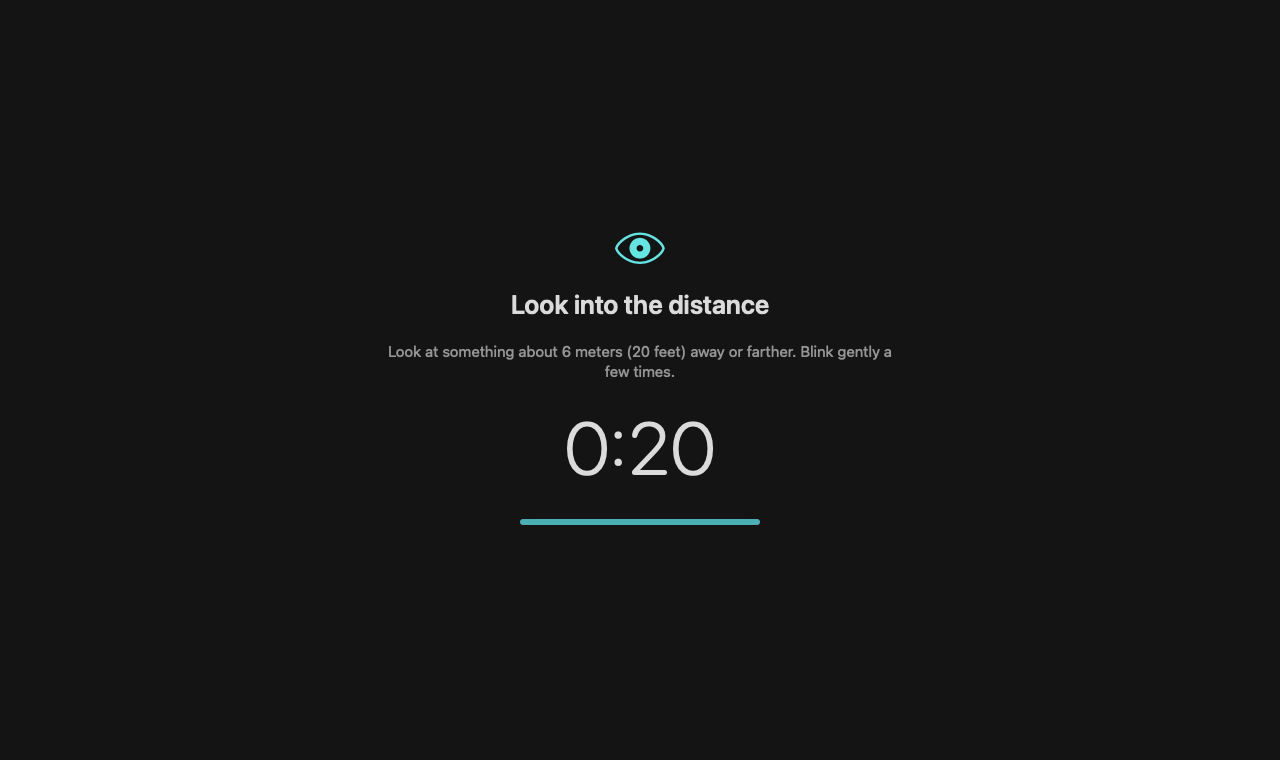
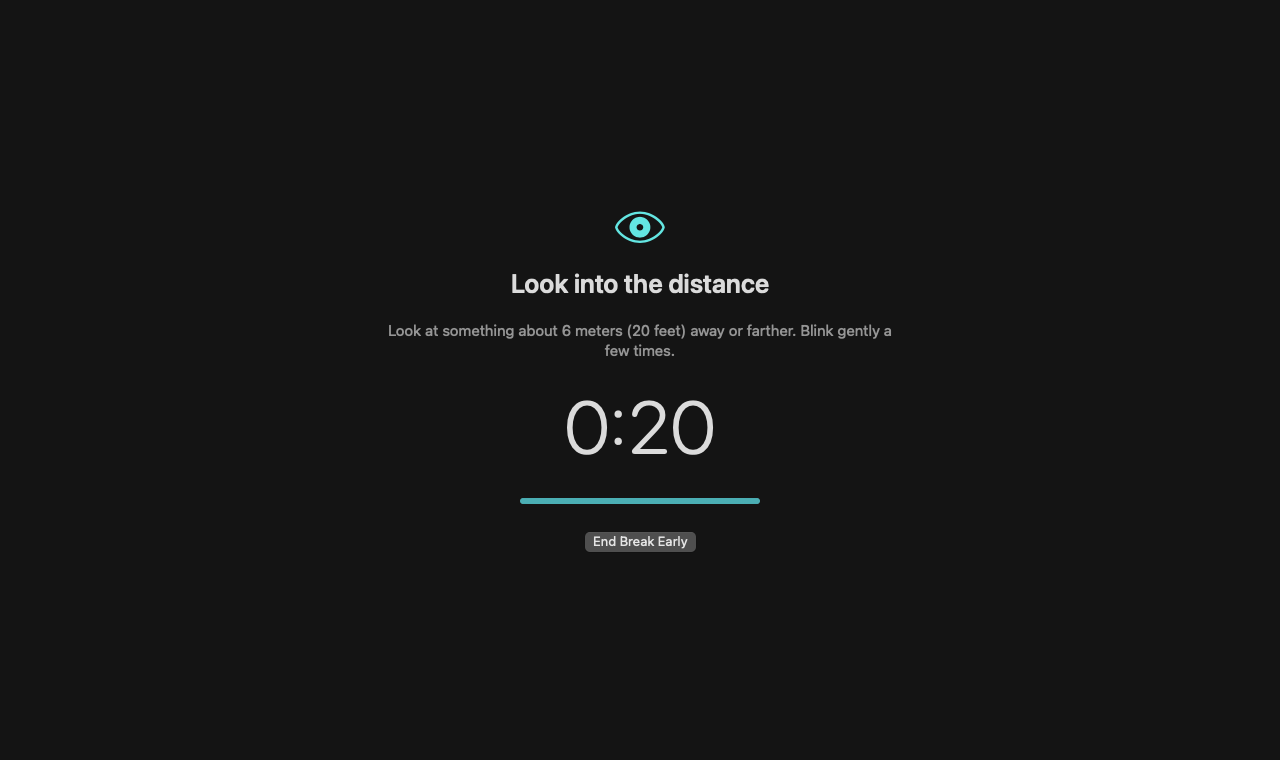
Allow users to end a break early

Changed region(s): [[0.3125, 0.2724, 0.6875, 0.7263]]

diff --git a/EyeCare/BreakOverlay.swift b/EyeCare/BreakOverlay.swift
@@ -49,6 +49,7 @@ final class BreakOverlay {
             window.animationBehavior = .none
             window.collectionBehavior = [.canJoinAllSpaces, .fullScreenAuxiliary, .stationary, .ignoresCycle]
             window.collectionBehavior.insert(.canJoinAllApplications)
+            window.onEscape = { [weak timing] in timing?.endBreakEarly() }
             window.contentView = NSHostingView(rootView: BreakView(timing: timing))
             window.orderFrontRegardless()
             return window
@@ -60,11 +61,19 @@ final class BreakOverlay {
 }
 
 private final class OverlayWindow: NSWindow {
+    var onEscape: (() -> Void)?
+
     override var canBecomeKey: Bool { true }
 
     override func sendEvent(_ event: NSEvent) {
         switch event.type {
-        case .keyDown, .keyUp, .flagsChanged:
+        case .keyDown:
+            let modifiers: NSEvent.ModifierFlags = [.command, .control, .option, .shift]
+            if !event.isARepeat, event.modifierFlags.intersection(modifiers).isEmpty,
+               event.charactersIgnoringModifiers == "\u{1B}" {
+                onEscape?()
+            }
+        case .keyUp, .flagsChanged:
             return
         default:
             super.sendEvent(event)
@@ -104,6 +113,12 @@ private struct BreakView: View {
                     .tint(.mint)
                     .frame(maxWidth: 240)
                     .accessibilityHidden(true)
+
+                Button("break.endEarly") {
+                    timing.endBreakEarly()
+                }
+                .buttonStyle(.bordered)
+                .help(Text("break.endEarlyHelp"))
             }
             .padding(32)
             .frame(maxWidth: 600)

diff --git a/EyeCareTests/WorkTimerTests.swift b/EyeCareTests/WorkTimerTests.swift
@@ -1,6 +1,38 @@
 import XCTest
 
 final class WorkTimerTests: XCTestCase {
+    func testEndingShortBreakEarlyResumesWorkAndPreservesLongBreakProgress() {
+        var timer = WorkTimer(now: 0)
+        timer.update(at: 1200, idleSeconds: 0, suspended: false)
+        XCTAssertEqual(timer.schedule.session?.kind, .short)
+
+        timer.endBreak(at: 1202)
+        XCTAssertNil(timer.schedule.session)
+        XCTAssertEqual(timer.schedule.untilShortBreak, 1200)
+        XCTAssertEqual(timer.schedule.untilLongBreak, 2400)
+
+        timer.update(at: 1203, idleSeconds: 0, suspended: false)
+        XCTAssertNil(timer.schedule.session)
+        XCTAssertEqual(timer.schedule.untilShortBreak, 1199)
+        XCTAssertEqual(timer.schedule.untilLongBreak, 2399)
+    }
+
+    func testEndingLongBreakEarlyDoesNotImmediatelyShowAnOverlayAgain() {
+        var timer = WorkTimer(now: 0)
+        timer.update(at: 3600, idleSeconds: 0, suspended: false)
+        XCTAssertEqual(timer.schedule.session?.kind, .long)
+        timer.update(at: 3720, idleSeconds: 120, suspended: false)
+        XCTAssertNotNil(timer.awaySince)
+
+        timer.endBreak(at: 3721)
+        XCTAssertNil(timer.schedule.session)
+        XCTAssertNil(timer.awaySince)
+        timer.update(at: 3722, idleSeconds: 122, suspended: false)
+        XCTAssertNil(timer.schedule.session)
+        XCTAssertEqual(timer.schedule.untilShortBreak, 1199)
+        XCTAssertEqual(timer.schedule.untilLongBreak, 3599)
+    }
+
     func testIdleTimeIsRemovedAndOnlyTheDistanceBreakResetsAfterThreeMinutes() {
         var timer = WorkTimer(now: 0)
         timer.update(at: 600, idleSeconds: 0, suspended: false)

diff --git a/EyeCare/BreakSchedule.swift b/EyeCare/BreakSchedule.swift
@@ -41,7 +41,7 @@ struct BreakSchedule {
 
         if let session {
             guard now >= session.endsAt else { return }
-            self.session = nil
+            finishBreak(at: now)
             return
         }
 
@@ -67,6 +67,11 @@ struct BreakSchedule {
         }
         lastUpdate = now
         session = BreakSession(kind: kind, duration: duration, endsAt: now + duration)
+    }
+
+    mutating func finishBreak(at now: TimeInterval) {
+        session = nil
+        lastUpdate = now
     }
 
     mutating func excludeIdleWork(_ duration: TimeInterval) {

diff --git a/EyeCare/WorkTimer.swift b/EyeCare/WorkTimer.swift
@@ -81,6 +81,14 @@ struct WorkTimer {
         workSince = now
     }
 
+    mutating func endBreak(at now: TimeInterval) {
+        guard schedule.session != nil else { return }
+        schedule.finishBreak(at: now)
+        awaySince = nil
+        idleDetectionSince = now
+        workSince = now
+    }
+
     mutating func keepTiming(at now: TimeInterval) {
         readingUntil = now + Self.readingDuration
     }

diff --git a/EyeCare/TimingController.swift b/EyeCare/TimingController.swift
@@ -86,6 +86,13 @@ final class TimingController: ObservableObject {
         present(at: timestamp)
     }
 
+    func endBreakEarly() {
+        guard session != nil, suspensions.isEmpty else { return }
+        let timestamp = now
+        workTimer.endBreak(at: timestamp)
+        present(at: timestamp)
+    }
+
     func toggleReadingMode() {
         guard canTakeBreak else { return }
         let timestamp = now

diff --git a/README.md b/README.md
@@ -20,7 +20,7 @@ ZIP SHA-256 `cf49d15f66fe338d2d2dacff7166e016868b9640e6a6eb8c15d5ce72b4dc670a`
 
 **20-second distance break**
 
-![EyeCare's full-screen distance break showing instructions and a 20-second countdown](docs/screenshots/eye-break.png)
+![EyeCare's full-screen distance break showing a 20-second countdown and the End Break Early button](docs/screenshots/eye-break.png)
 
 ## Run locally
 
@@ -39,7 +39,7 @@ xcodebuild -project EyeCare.xcodeproj -scheme EyeCare -destination 'platform=mac
 - With the screen on, two minutes without input counts as time away by default. Settings allows an idle threshold of 1–10 minutes. EyeCare excludes that time from both timers starting at the last input. A reminder that comes due after 30 seconds without input waits for the next input or a natural break.
 - On return, an absence of at least 20 seconds resets the distance break timer. An absence that also meets the configured long break duration resets both timers.
 - Use **Keep Counting for 30 Minutes** in the menu bar for reading, video, or meetings. During that time, idle input does not pause counting. Locking or sleeping your Mac still pauses it. Choose **Resume Idle Detection** to end the mode early.
-- The overlay covers each connected display until its countdown finishes. The app uses macOS windows for interruption and macOS continues to handle system shortcuts.
+- The overlay covers each connected display during a break. Click **End Break Early** or press **Esc** if you need to get back to work immediately. The next reminder follows the usual schedule.
 - Launch at login is enabled on first run through Service Management. Later choices in the app or in System Settings are respected.
 
 ## Automatic updates
@@ -53,7 +53,7 @@ The [production appcast](https://eyecare-updates.gltlab.net/appcast.xml) adverti
 Run the release command from the repository root with the intended version and build number.
 
 ```sh
-./scripts/release.sh 1.0.1 3
+./scripts/release.sh 1.1.1 4
 ```
 
 Use an `x.y.z` version and a positive integer build number greater than the one in the live appcast. The script sets both values on the Xcode command line. It archives a universal Release build, exports it with Xcode's automatic Developer ID signing, submits it to Apple, and staples the notarization ticket. It then signs the Sparkle appcast and ZIP, deploys them to Cloudflare, and downloads both over HTTPS to verify their contents and signatures.
@@ -67,7 +67,7 @@ The release command requires the following maintainer credentials and tools.
 Use `--dry-run` to prepare signed assets and run Wrangler's deployment checks.
 
 ```sh
-./scripts/release.sh 1.0.1 3 --dry-run
+./scripts/release.sh 1.1.1 4 --dry-run
 ```
 
 This submits the build to Apple for notarization and leaves the production appcast as it was. Both modes retain the archive, notarization logs, and release assets in the printed `.build/release-*` directory. Keep a copy of each published ZIP for rollback or support.
